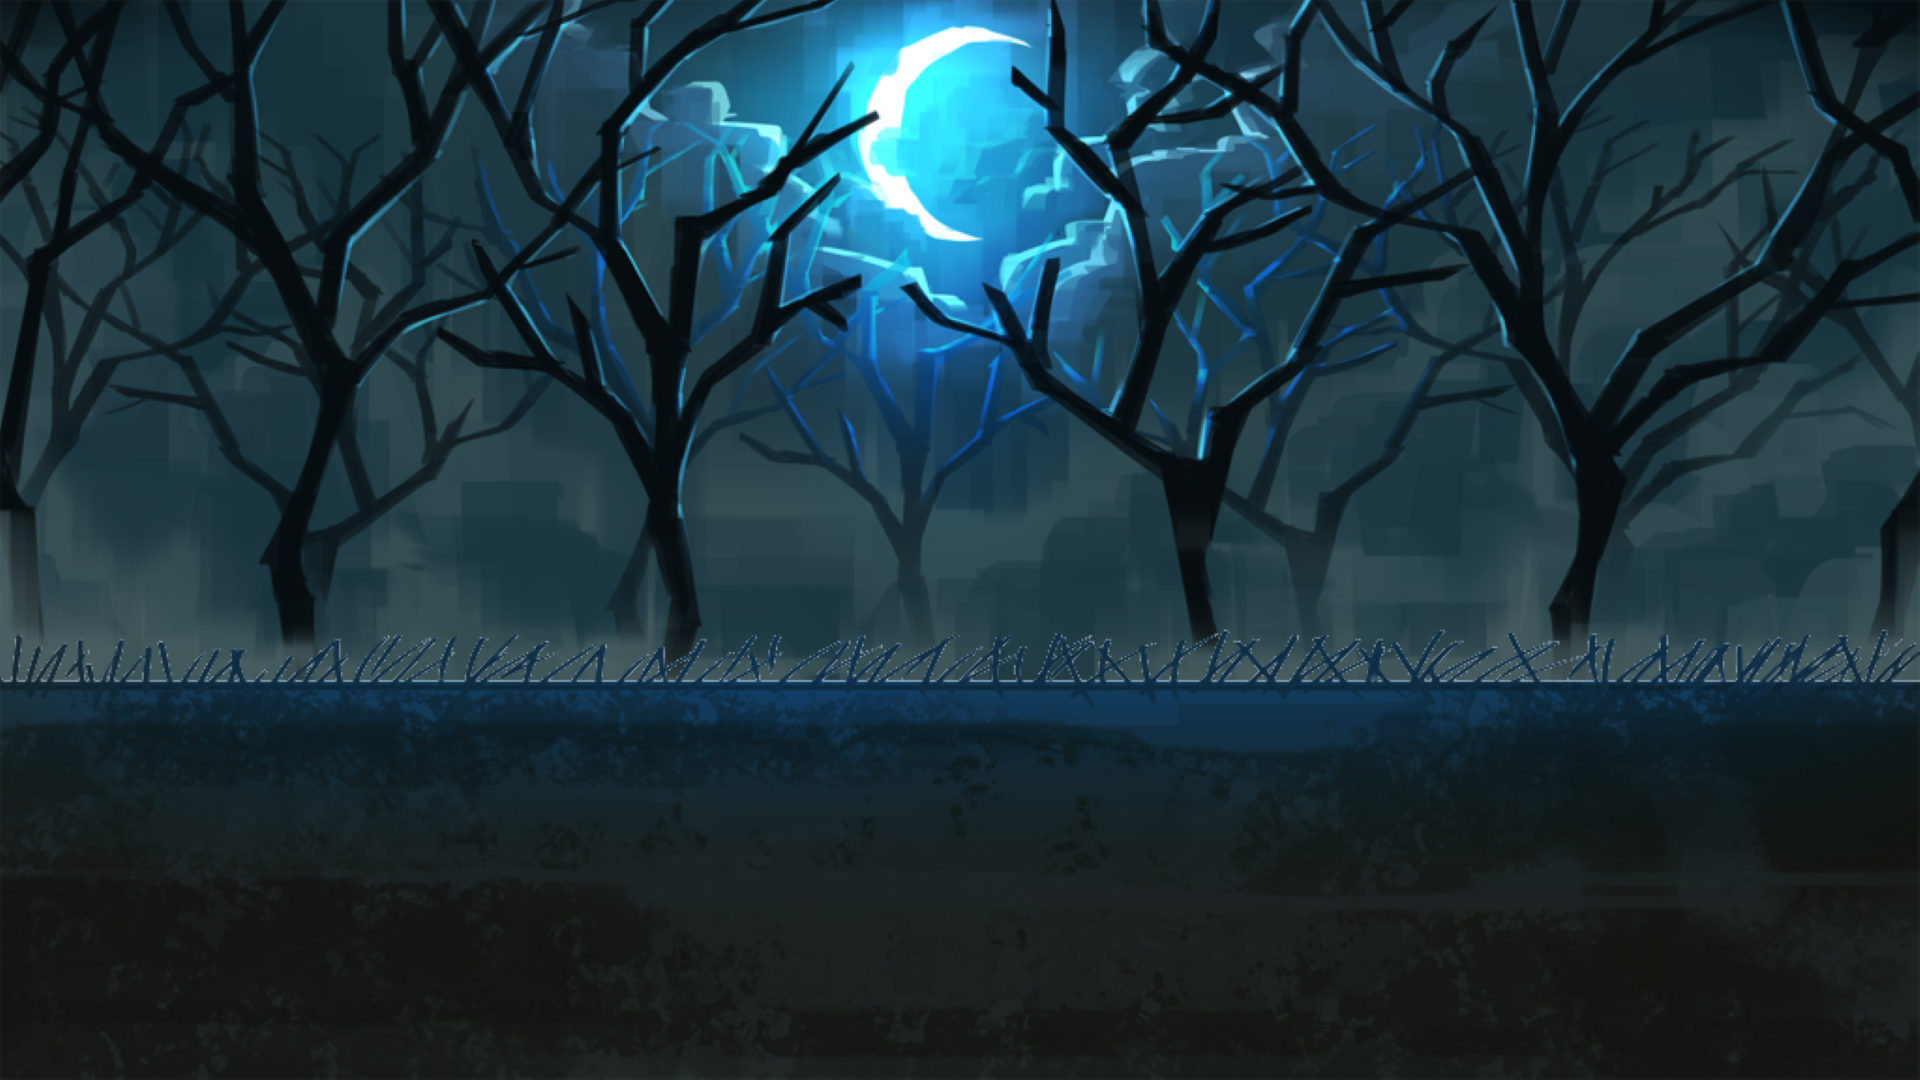
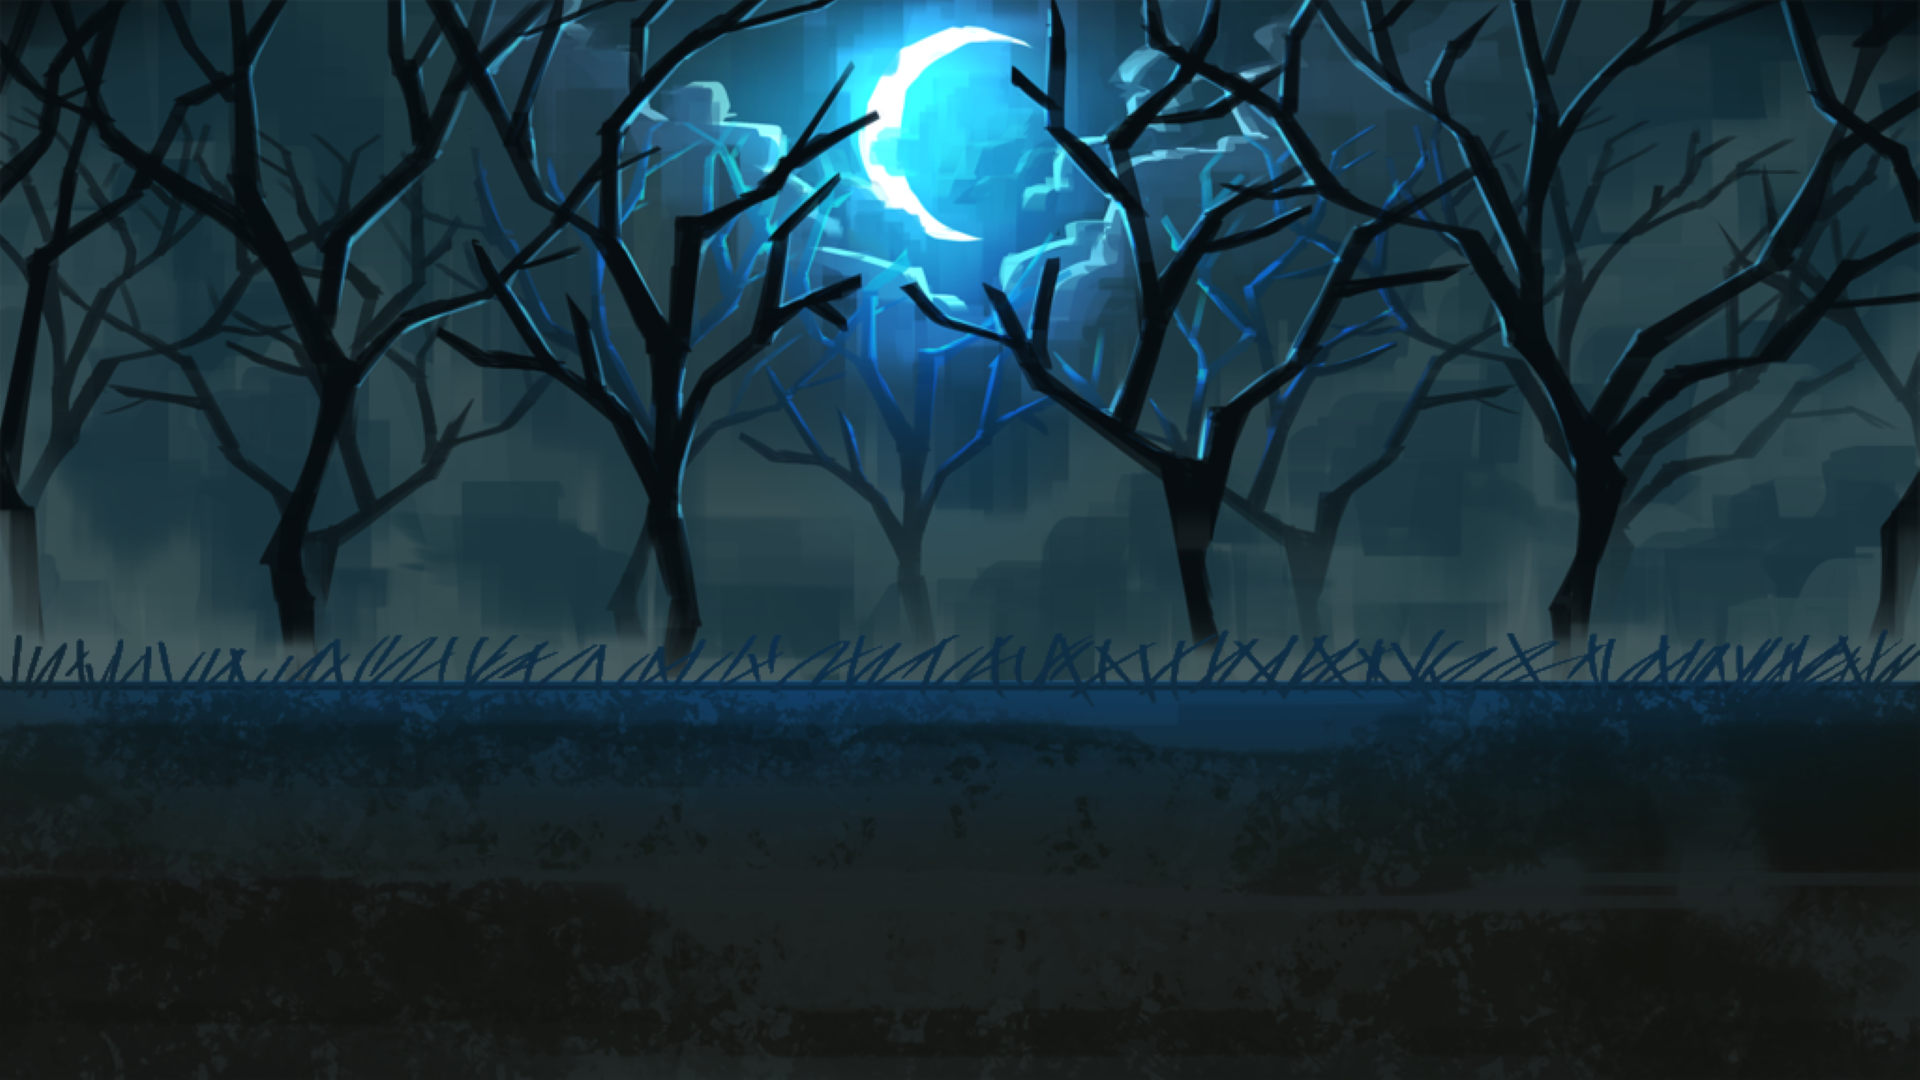
new bg and better code

Changed region(s): [[0.625, 0.5806, 1.0, 0.6417], [0.1562, 0.5806, 0.5938, 0.6417], [0.0, 0.6111, 0.125, 0.6417]]

diff --git a/src/main/java/ruina/monsters/act2/NightmareWolf.java b/src/main/java/ruina/monsters/act2/NightmareWolf.java
@@ -93,15 +93,9 @@ public class NightmareWolf extends AbstractMultiIntentMonster
     }
 
     @Override
-    public void takeCustomTurn(EnemyMoveInfo move) {
+    public void takeCustomTurn(EnemyMoveInfo move, AbstractCreature target) {
         DamageInfo info = new DamageInfo(this, move.baseDamage, DamageInfo.DamageType.NORMAL);
         int multiplier = move.multiplier;
-        AbstractCreature target;
-        if (!targetRed || red.isDead) {
-            target = adp();
-        } else {
-            target = red;
-        }
 
         if(info.base > -1) {
             info.applyPowers(this, target);
@@ -159,16 +153,18 @@ public class NightmareWolf extends AbstractMultiIntentMonster
 
     @Override
     public void takeTurn() {
-        targetRed = false;
-        takeCustomTurn(this.moves.get(nextMove));
+        takeCustomTurn(this.moves.get(nextMove), adp());
         for (EnemyMoveInfo additionalMove : additionalMoves) {
             atb(new AbstractGameAction() {
                 @Override
                 public void update() {
-                    targetRed = true;
                     atb(new VFXAction(new MoveNameEffect(hb.cX - animX, hb.cY + hb.height / 2.0F, MOVES[additionalMove.nextMove])));
                     atb(new IntentFlashAction(red.wolf));
-                    takeCustomTurn(additionalMove);
+                    if (red.isDead) {
+                        takeCustomTurn(additionalMove, adp());
+                    } else {
+                        takeCustomTurn(additionalMove, red);
+                    }
                     this.isDone = true;
                 }
             });
@@ -223,6 +219,7 @@ public class NightmareWolf extends AbstractMultiIntentMonster
 
     public void onRedDeath() {
         playSound("Fog", 3.0f);
+        AbstractDungeon.scene.nextRoom(AbstractDungeon.getCurrRoom()); //switches bg
         atb(new HealAction(this, this, HEAL));
     }
 

diff --git a/src/main/java/ruina/scenes/RuinaScene.java b/src/main/java/ruina/scenes/RuinaScene.java
@@ -61,7 +61,12 @@ public class RuinaScene extends AbstractScene {
         if (room.monsters != null) {
             for (AbstractMonster mo : room.monsters.monsters) {
                 if (mo instanceof LittleRed) {
-                    this.bg = this.atlas.findRegion("mod/NightForest");
+                    LittleRed red = (LittleRed)mo;
+                    if (red.isDead || red.isDying || red.enraged) {
+                        this.bg = this.atlas.findRegion("mod/RedNightForest");
+                    } else {
+                        this.bg = this.atlas.findRegion("mod/NightForest");
+                    }
                     break;
                 } else {
                     this.bg = this.atlas.findRegion("mod/NightForest");

diff --git a/src/main/java/ruina/monsters/act2/LittleRed.java b/src/main/java/ruina/monsters/act2/LittleRed.java
@@ -50,7 +50,7 @@ public class LittleRed extends AbstractAllyMonster
 
     private final int DEFENSE = calcAscensionTankiness(10);
     private final int STRENGTH = 2;
-    private boolean enraged = false;
+    public boolean enraged = false;
 
     public NightmareWolf wolf;
 
@@ -201,6 +201,7 @@ public class LittleRed extends AbstractAllyMonster
         isAlly = false;
         animation.setFlip(false, false);
         playSound("Rage", 2.0f);
+        AbstractDungeon.scene.nextRoom(AbstractDungeon.getCurrRoom()); //switches bg
         atb(new ShoutAction(this, DIALOG[1], 2.0F, 3.0F));
         atb(new VFXAction(this, new InflameEffect(this), 1.0F));
         applyToTarget(this, this, new StrengthPower(this, STRENGTH));

diff --git a/src/main/java/ruina/monsters/AbstractMultiIntentMonster.java b/src/main/java/ruina/monsters/AbstractMultiIntentMonster.java
@@ -47,7 +47,7 @@ public abstract class AbstractMultiIntentMonster extends AbstractRuinaMonster {
         super(name, id, maxHealth, hb_x, hb_y, hb_w, hb_h, imgUrl);
     }
 
-    public void takeCustomTurn(EnemyMoveInfo move) {
+    public void takeCustomTurn(EnemyMoveInfo move, AbstractCreature target) {
 
     }
 
